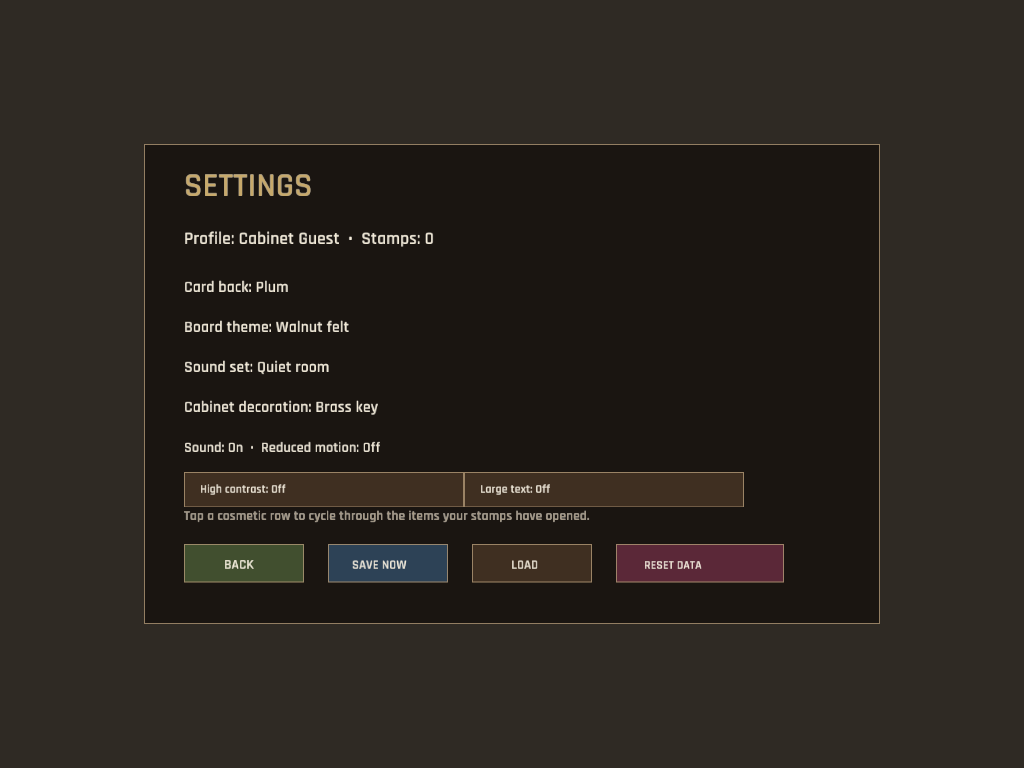
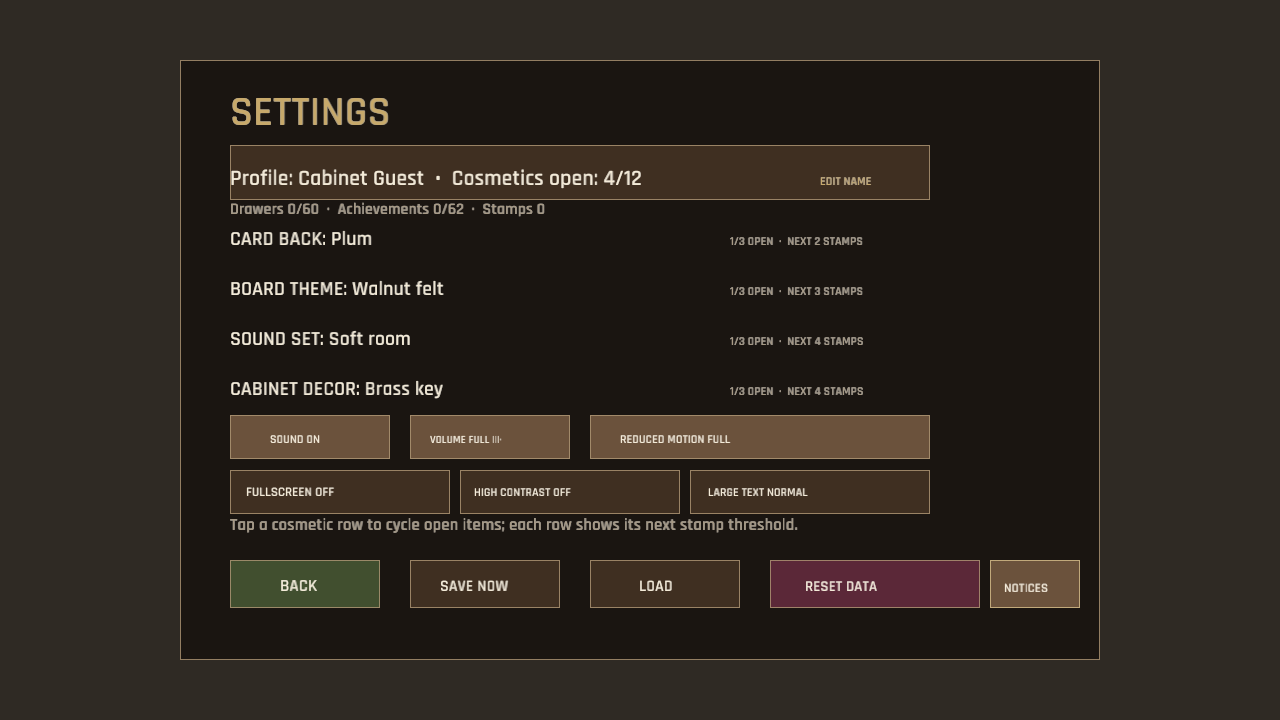
The cabinet can fill the screen from Settings (settings/display)
Add the toolkit-backed fullscreen preference to desktop, portrait, and compact-landscape settings. Apply it on native startup, wait for a browser gesture on web, and report persistence failures. Refresh the three settings captures and complete the existing TODO item.

Validation: cargo fmt -- --check, strict Clippy, native capture build, and WebAssembly release build.

diff --git a/src/game.rs b/src/game.rs
@@ -6,6 +6,7 @@ use crate::{data::GameData, state::AppState};
 use macroquad::prelude::*;
 use macroquad_toolkit::assets::AssetManager;
 use macroquad_toolkit::notifications::NotificationManager;
+use macroquad_toolkit::settings::GameSettings;
 
 #[path = "game_action_dispatch.rs"]
 mod game_action_dispatch;
@@ -68,6 +69,7 @@ pub struct Game {
     pub(super) touch_was_active: bool,
     pub(super) capture_solitaire_peek: bool,
     pub sounds: SoundBank,
+    pub(super) settings: GameSettings,
     pub transition: f32,
     pub confirmation_bypass: bool,
     pub(super) save_dirty: bool,
@@ -88,7 +90,22 @@ impl Game {
         let placeholder = Image::gen_image_color(16, 16, crate::theme::SURFACE_DARK);
         assets.set_placeholder_texture_direct(Texture2D::from_image(&placeholder));
         assets.load_texture_configs(&data.texture_manifest).await;
-        let state = AppState::new(&data);
+        let mut settings = GameSettings::load(&data.config.game_name);
+        let capture_mode = macroquad_toolkit::capture::capture_requested("IDLE_HANDS");
+        #[cfg(target_arch = "wasm32")]
+        {
+            // Browsers require a user gesture to enter fullscreen after reload.
+            settings.fullscreen = false;
+        }
+        if capture_mode {
+            settings.fullscreen = false;
+        }
+        #[cfg(not(target_arch = "wasm32"))]
+        if !capture_mode && settings.fullscreen {
+            set_fullscreen(true);
+        }
+        let mut state = AppState::new(&data);
+        state.fullscreen = settings.fullscreen;
         let mut game = Self {
             analytics: crate::analytics::GameAnalytics::disabled(&state),
             state,
@@ -99,6 +116,7 @@ impl Game {
             touch_was_active: false,
             capture_solitaire_peek: false,
             sounds: SoundBank::load().await,
+            settings,
             transition: 0.,
             confirmation_bypass: false,
             save_dirty: false,

diff --git a/src/settings_ui.rs b/src/settings_ui.rs
@@ -99,25 +99,36 @@ pub fn draw_settings(state: &AppState) {
         WHITE,
     );
     panel(
-        Rect::new(230., 470., 350., 44.),
+        Rect::new(230., 470., 220., 44.),
         Color::new(0.16, 0.11, 0.24, 1.),
     );
     text(
-        &format!("High contrast: {}", labels.contrast),
-        250.,
+        &format!("FULLSCREEN {}", if state.fullscreen { "ON" } else { "OFF" }),
+        246.,
         496.,
-        15.,
+        13.,
         WHITE,
     );
     panel(
-        Rect::new(580., 470., 350., 44.),
+        Rect::new(460., 470., 220., 44.),
         Color::new(0.16, 0.11, 0.24, 1.),
     );
     text(
-        &format!("Large text: {}", labels.text),
-        600.,
+        &format!("HIGH CONTRAST {}", labels.contrast.to_uppercase()),
+        474.,
         496.,
-        15.,
+        12.,
+        WHITE,
+    );
+    panel(
+        Rect::new(690., 470., 240., 44.),
+        Color::new(0.16, 0.11, 0.24, 1.),
+    );
+    text(
+        &format!("LARGE TEXT {}", labels.text.to_uppercase()),
+        708.,
+        496.,
+        12.,
         WHITE,
     );
     text(
@@ -218,10 +229,13 @@ pub fn settings_clicks(state: &AppState, p: Vec2) -> Vec<UiAction> {
     if crate::ui::hit(Rect::new(590., 415., 340., 44.), p) {
         actions.push(UiAction::ToggleMotion);
     }
-    if crate::ui::hit(Rect::new(230., 470., 350., 44.), p) {
+    if crate::ui::hit(Rect::new(230., 470., 220., 44.), p) {
+        actions.push(UiAction::ToggleFullscreen);
+    }
+    if crate::ui::hit(Rect::new(460., 470., 220., 44.), p) {
         actions.push(UiAction::ToggleHighContrast);
     }
-    if crate::ui::hit(Rect::new(580., 470., 350., 44.), p) {
+    if crate::ui::hit(Rect::new(690., 470., 240., 44.), p) {
         actions.push(UiAction::ToggleLargeText);
     }
     if crate::ui::hit(Rect::new(770., 560., 210., 48.), p) {

diff --git a/src/responsive_landscape_library/settings.rs b/src/responsive_landscape_library/settings.rs
@@ -29,8 +29,16 @@ pub fn draw_settings(state: &AppState) {
         10.,
         crate::theme::SECONDARY,
     );
-    panel(Rect::new(450., 268., 160., 44.), crate::theme::SURFACE_DARK);
-    text("EDIT NAME", 500., 296., 11., WHITE);
+    panel(Rect::new(450., 20., 160., 44.), crate::theme::SURFACE_DARK);
+    text("EDIT NAME", 500., 48., 11., WHITE);
+    panel(Rect::new(630., 20., 160., 44.), crate::theme::SURFACE_DARK);
+    text(
+        &format!("FULLSCREEN {}", if state.fullscreen { "ON" } else { "OFF" }),
+        650.,
+        48.,
+        10.,
+        WHITE,
+    );
     for (index, row) in crate::settings_data::cosmetic_rows(state)
         .into_iter()
         .enumerate()
@@ -199,8 +207,11 @@ pub fn settings_clicks(state: &AppState, p: Vec2) -> Vec<UiAction> {
     if crate::ui::hit(Rect::new(220., 268., 160., 44.), p) {
         return vec![UiAction::ResetData];
     }
-    if crate::ui::hit(Rect::new(450., 268., 160., 44.), p) {
+    if crate::ui::hit(Rect::new(450., 20., 160., 44.), p) {
         return vec![UiAction::Profile];
+    }
+    if crate::ui::hit(Rect::new(630., 20., 160., 44.), p) {
+        return vec![UiAction::ToggleFullscreen];
     }
     vec![]
 }

diff --git a/src/game_settings.rs b/src/game_settings.rs
@@ -6,6 +6,24 @@ use crate::{audio_settings, cosmetics::CosmeticKind, settings_data, ui::UiAction
 impl Game {
     pub(super) fn apply_settings_action(&mut self, action: UiAction) {
         let message = match action {
+            UiAction::ToggleFullscreen => {
+                self.settings.toggle_fullscreen();
+                self.state.fullscreen = self.settings.fullscreen;
+                if let Err(error) = self.settings.save(&self.data.config.game_name) {
+                    self.notifications.warning(format!(
+                        "Fullscreen changed, but the setting could not be saved: {error}"
+                    ));
+                    return;
+                }
+                format!(
+                    "Fullscreen {}",
+                    if self.settings.fullscreen {
+                        "on"
+                    } else {
+                        "off"
+                    }
+                )
+            }
             UiAction::ToggleSound => {
                 self.state.sound = !self.state.sound;
                 format!(

diff --git a/src/responsive_ui.rs b/src/responsive_ui.rs
@@ -263,6 +263,20 @@ pub fn draw_settings(state: &AppState) {
         Color::new(0.16, 0.11, 0.24, 1.),
     );
     text(&format!("Text: {}", labels.text), 200., 492., 12., WHITE);
+    panel(
+        Rect::new(22., 515., 316., 44.),
+        Color::new(0.16, 0.11, 0.24, 1.),
+    );
+    text(
+        &format!(
+            "Fullscreen: {}",
+            if state.fullscreen { "On" } else { "Off" }
+        ),
+        35.,
+        542.,
+        13.,
+        WHITE,
+    );
     for (rect, label) in [
         (Rect::new(22., 665., 76., 44.), "BACK"),
         (Rect::new(108., 665., 76., 44.), "SAVE"),
@@ -358,6 +372,9 @@ pub fn settings_clicks(state: &AppState, p: Vec2) -> Vec<UiAction> {
         if rect.contains(p) {
             return vec![action];
         }
+    }
+    if Rect::new(22., 515., 316., 44.).contains(p) {
+        return vec![UiAction::ToggleFullscreen];
     }
     vec![]
 }

diff --git a/src/game_action_dispatch/group_10.rs b/src/game_action_dispatch/group_10.rs
@@ -31,6 +31,7 @@ impl Game {
             ui::UiAction::DismissSaveRecovery => self.dismiss_save_recovery(),
             ui::UiAction::ToggleNoticeLog => self.toggle_notice_log(),
             ui::UiAction::ToggleSound
+            | ui::UiAction::ToggleFullscreen
             | ui::UiAction::ToggleMotion
             | ui::UiAction::ToggleHighContrast
             | ui::UiAction::ToggleLargeText
@@ -42,6 +43,7 @@ impl Game {
             ui::UiAction::ResetData => self.state.confirm_reset = true,
             ui::UiAction::ConfirmResetData => {
                 self.state = AppState::new(&self.data);
+                self.state.fullscreen = self.settings.fullscreen;
             }
             ui::UiAction::CancelResetData => self.state.confirm_reset = false,
             _ => return ShellActionResult::Unhandled,

diff --git a/src/state.rs b/src/state.rs
@@ -116,6 +116,8 @@ pub struct AppState {
     pub profile_name: String,
     pub sound: bool,
     pub sound_level: u8,
+    /// Cached display preference for the Settings view; persisted separately by the toolkit.
+    pub fullscreen: bool,
     pub lifecycle_paused: bool,
     pub save_recovery: Option<crate::save_recovery::SaveRecoveryNotice>,
     pub notice_log_view: bool,
@@ -172,6 +174,7 @@ impl Default for AppState {
             profile_name,
             sound: true,
             sound_level: crate::audio_settings::DEFAULT_LEVEL,
+            fullscreen: false,
             lifecycle_paused: false,
             save_recovery: None,
             notice_log_view: false,

diff --git a/src/game_capture/setup.rs b/src/game_capture/setup.rs
@@ -8,6 +8,7 @@ use macroquad_toolkit::notifications::NotificationManager;
 impl Game {
     pub fn begin_capture_scene(&mut self, scene: &str) {
         self.state = crate::state::AppState::new(&self.data);
+        self.state.fullscreen = self.settings.fullscreen;
         self.capture_solitaire_peek = false;
         self.notifications = NotificationManager::new();
         let scene = scene

diff --git a/src/game_navigation.rs b/src/game_navigation.rs
@@ -132,6 +132,7 @@ impl Game {
             });
         if !has_saved_state {
             self.state = crate::state::AppState::new_random(&self.data, get_time().to_bits());
+            self.state.fullscreen = self.settings.fullscreen;
         }
     }
 

diff --git a/src/ui_action.rs b/src/ui_action.rs
@@ -53,6 +53,7 @@ pub enum UiAction {
     ConfirmRestart,
     Cancel,
     ToggleSound,
+    ToggleFullscreen,
     CycleSoundVolume,
     ResumeLifecycle,
     DismissSaveRecovery,

diff --git a/TODO.md b/TODO.md
@@ -15,4 +15,4 @@
 
 ## Settings and display
 
-- [ ] Add a visible Fullscreen toggle to Settings and persist the player's choice.
+- [x] Add a visible Fullscreen toggle to Settings and persist the player's choice.
